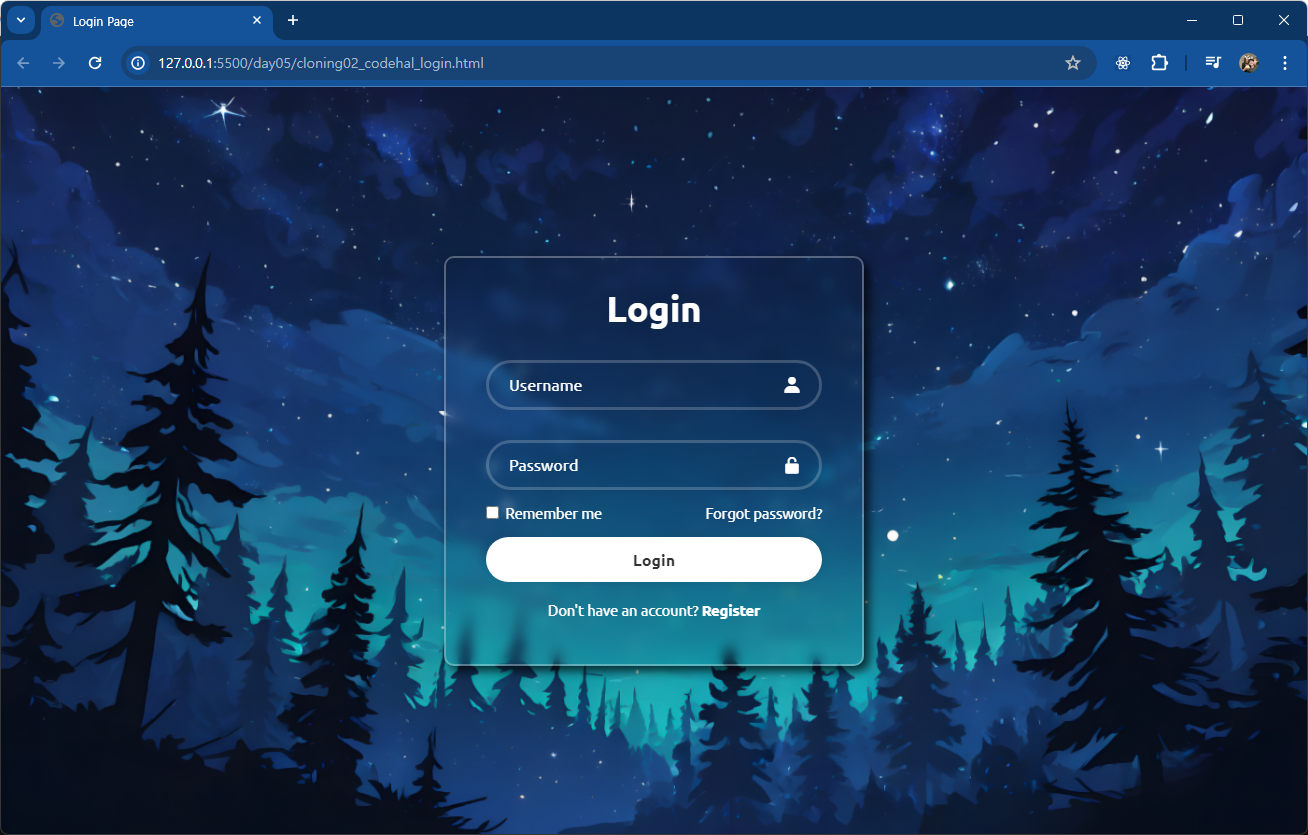
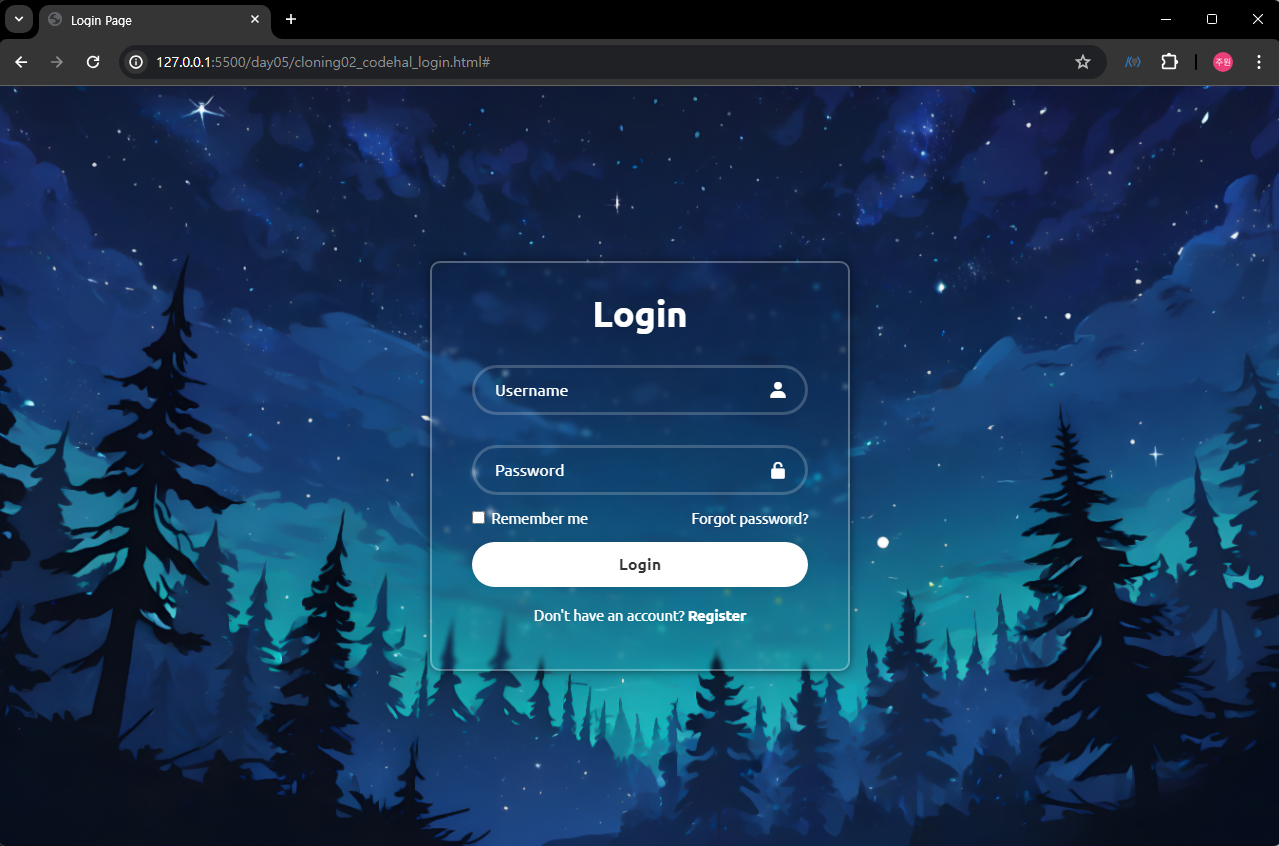
codehal 로그인 창 사진 업로드

diff --git a/README.md b/README.md
@@ -193,4 +193,4 @@ IoT 개발자과정 ASP.NET 리포지토리
 
     - Codehal 유튜버 로그인 웹페이지 튜토리얼 따라하기
 
-    <img src="" width="800">
+    <img src="https://raw.githubusercontent.com/breadcoffee/basic-aspnet-2024/main/images/an001.png" width="730" alt="Codehal 로그인창 따라하기">
